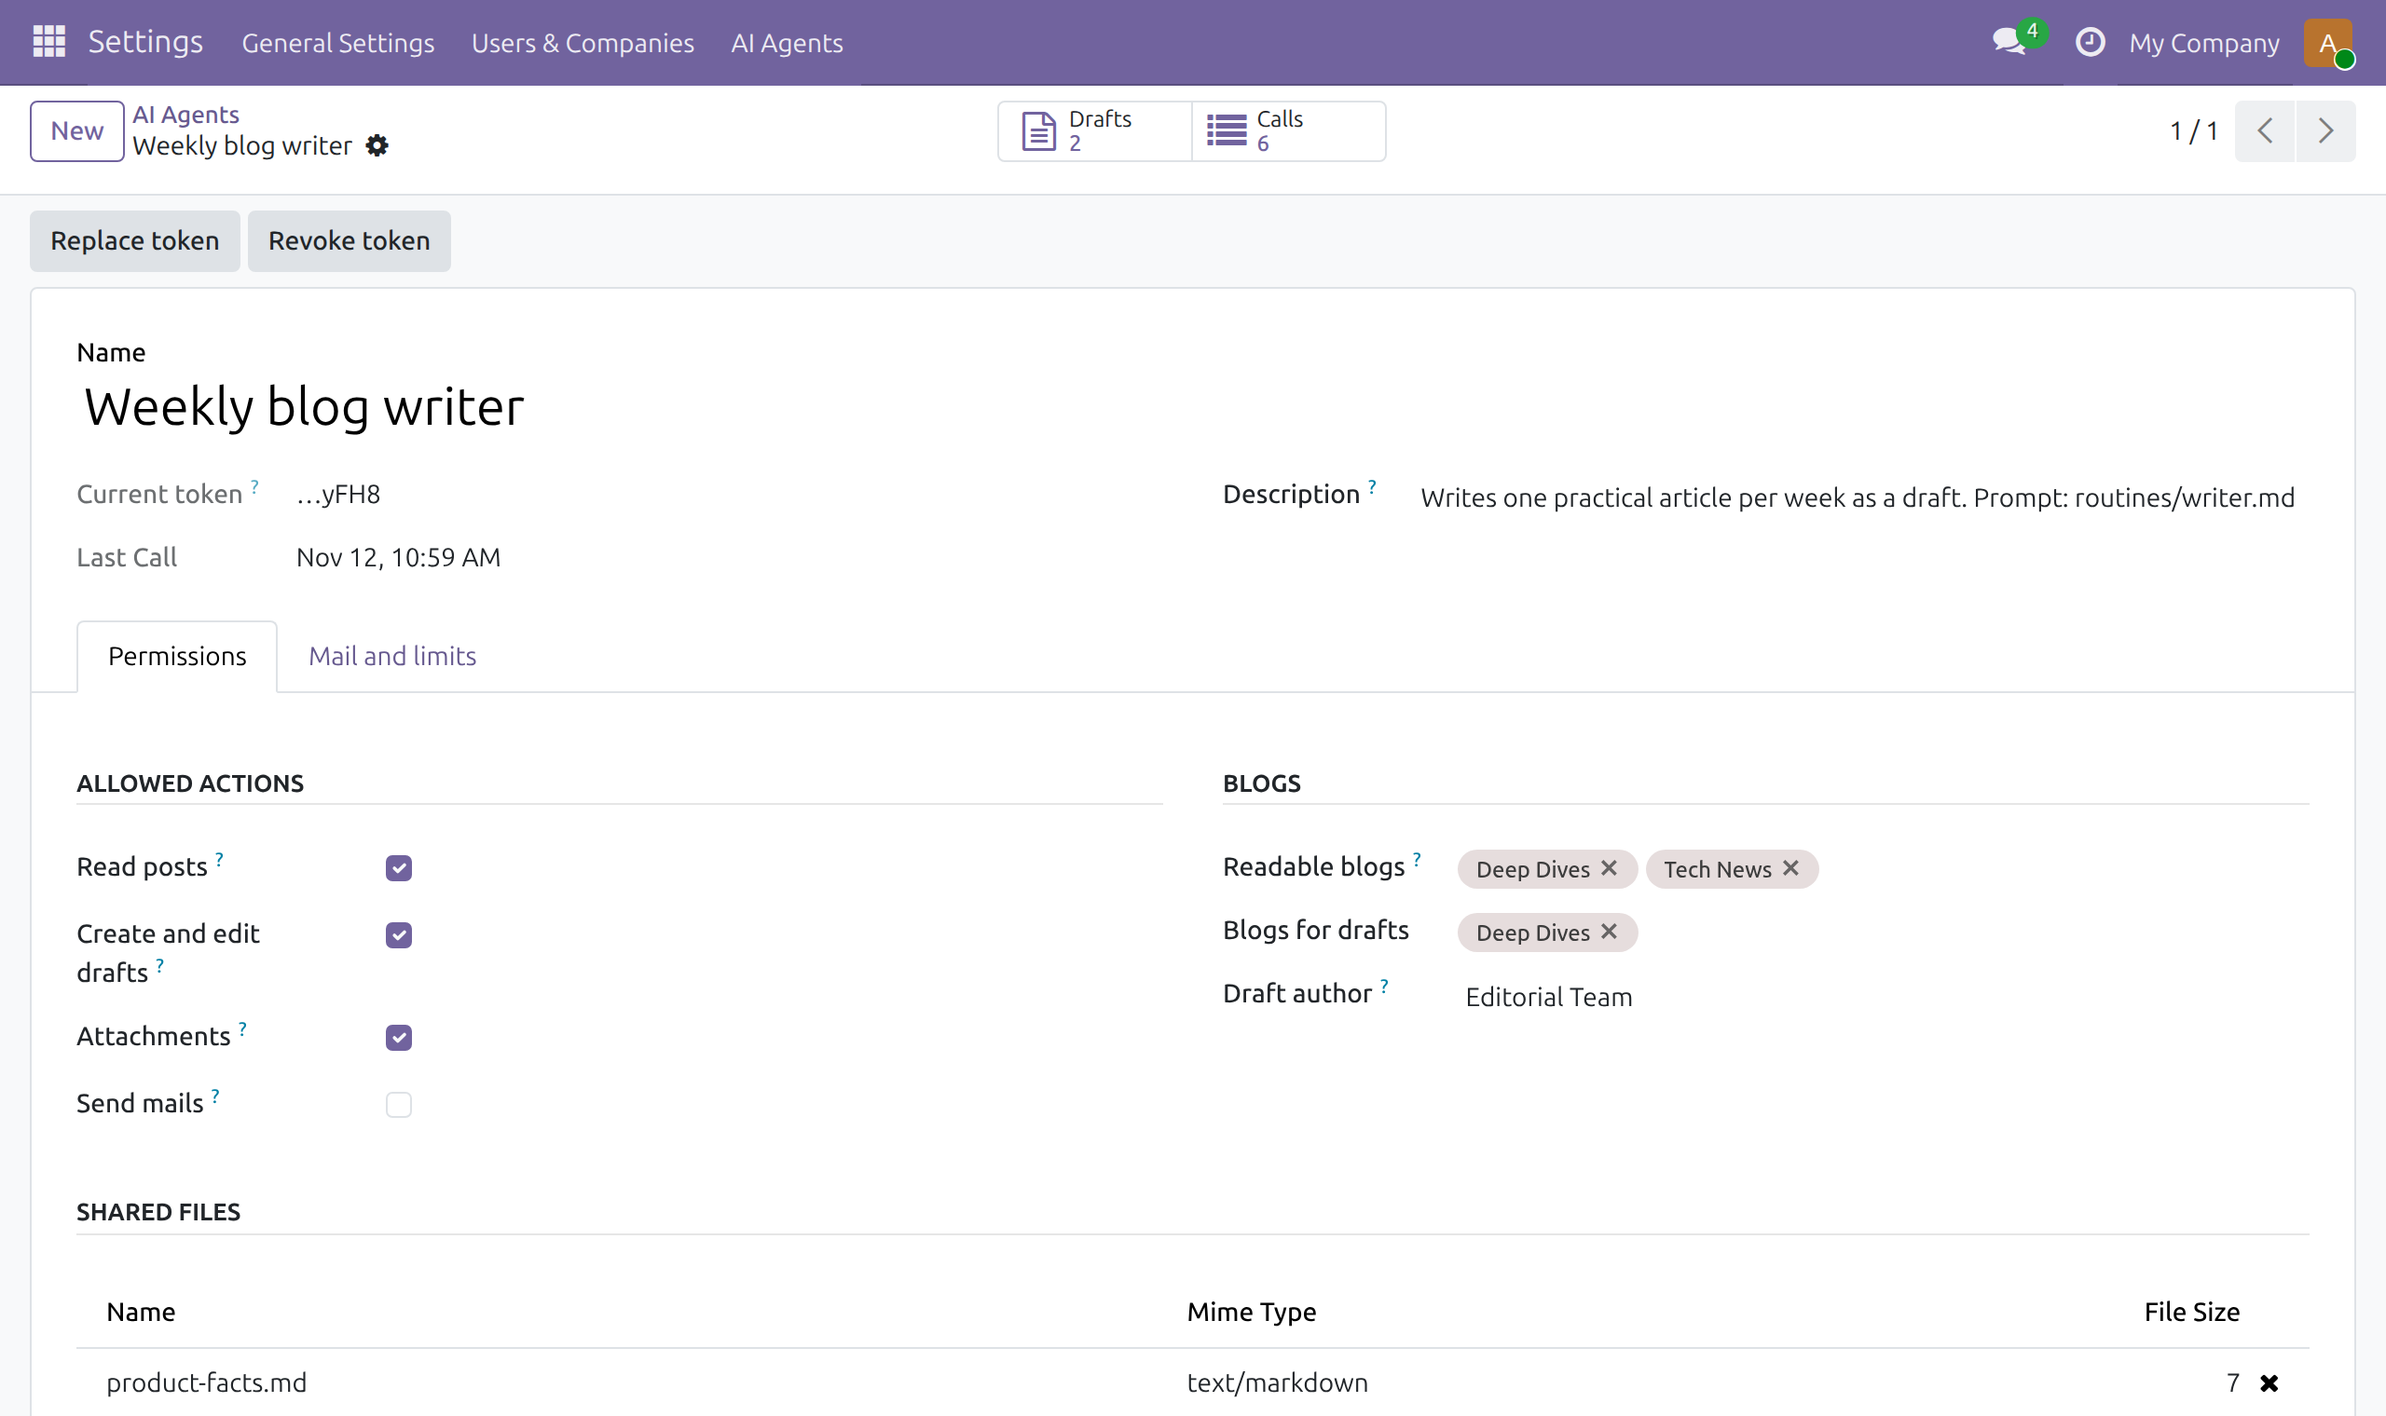
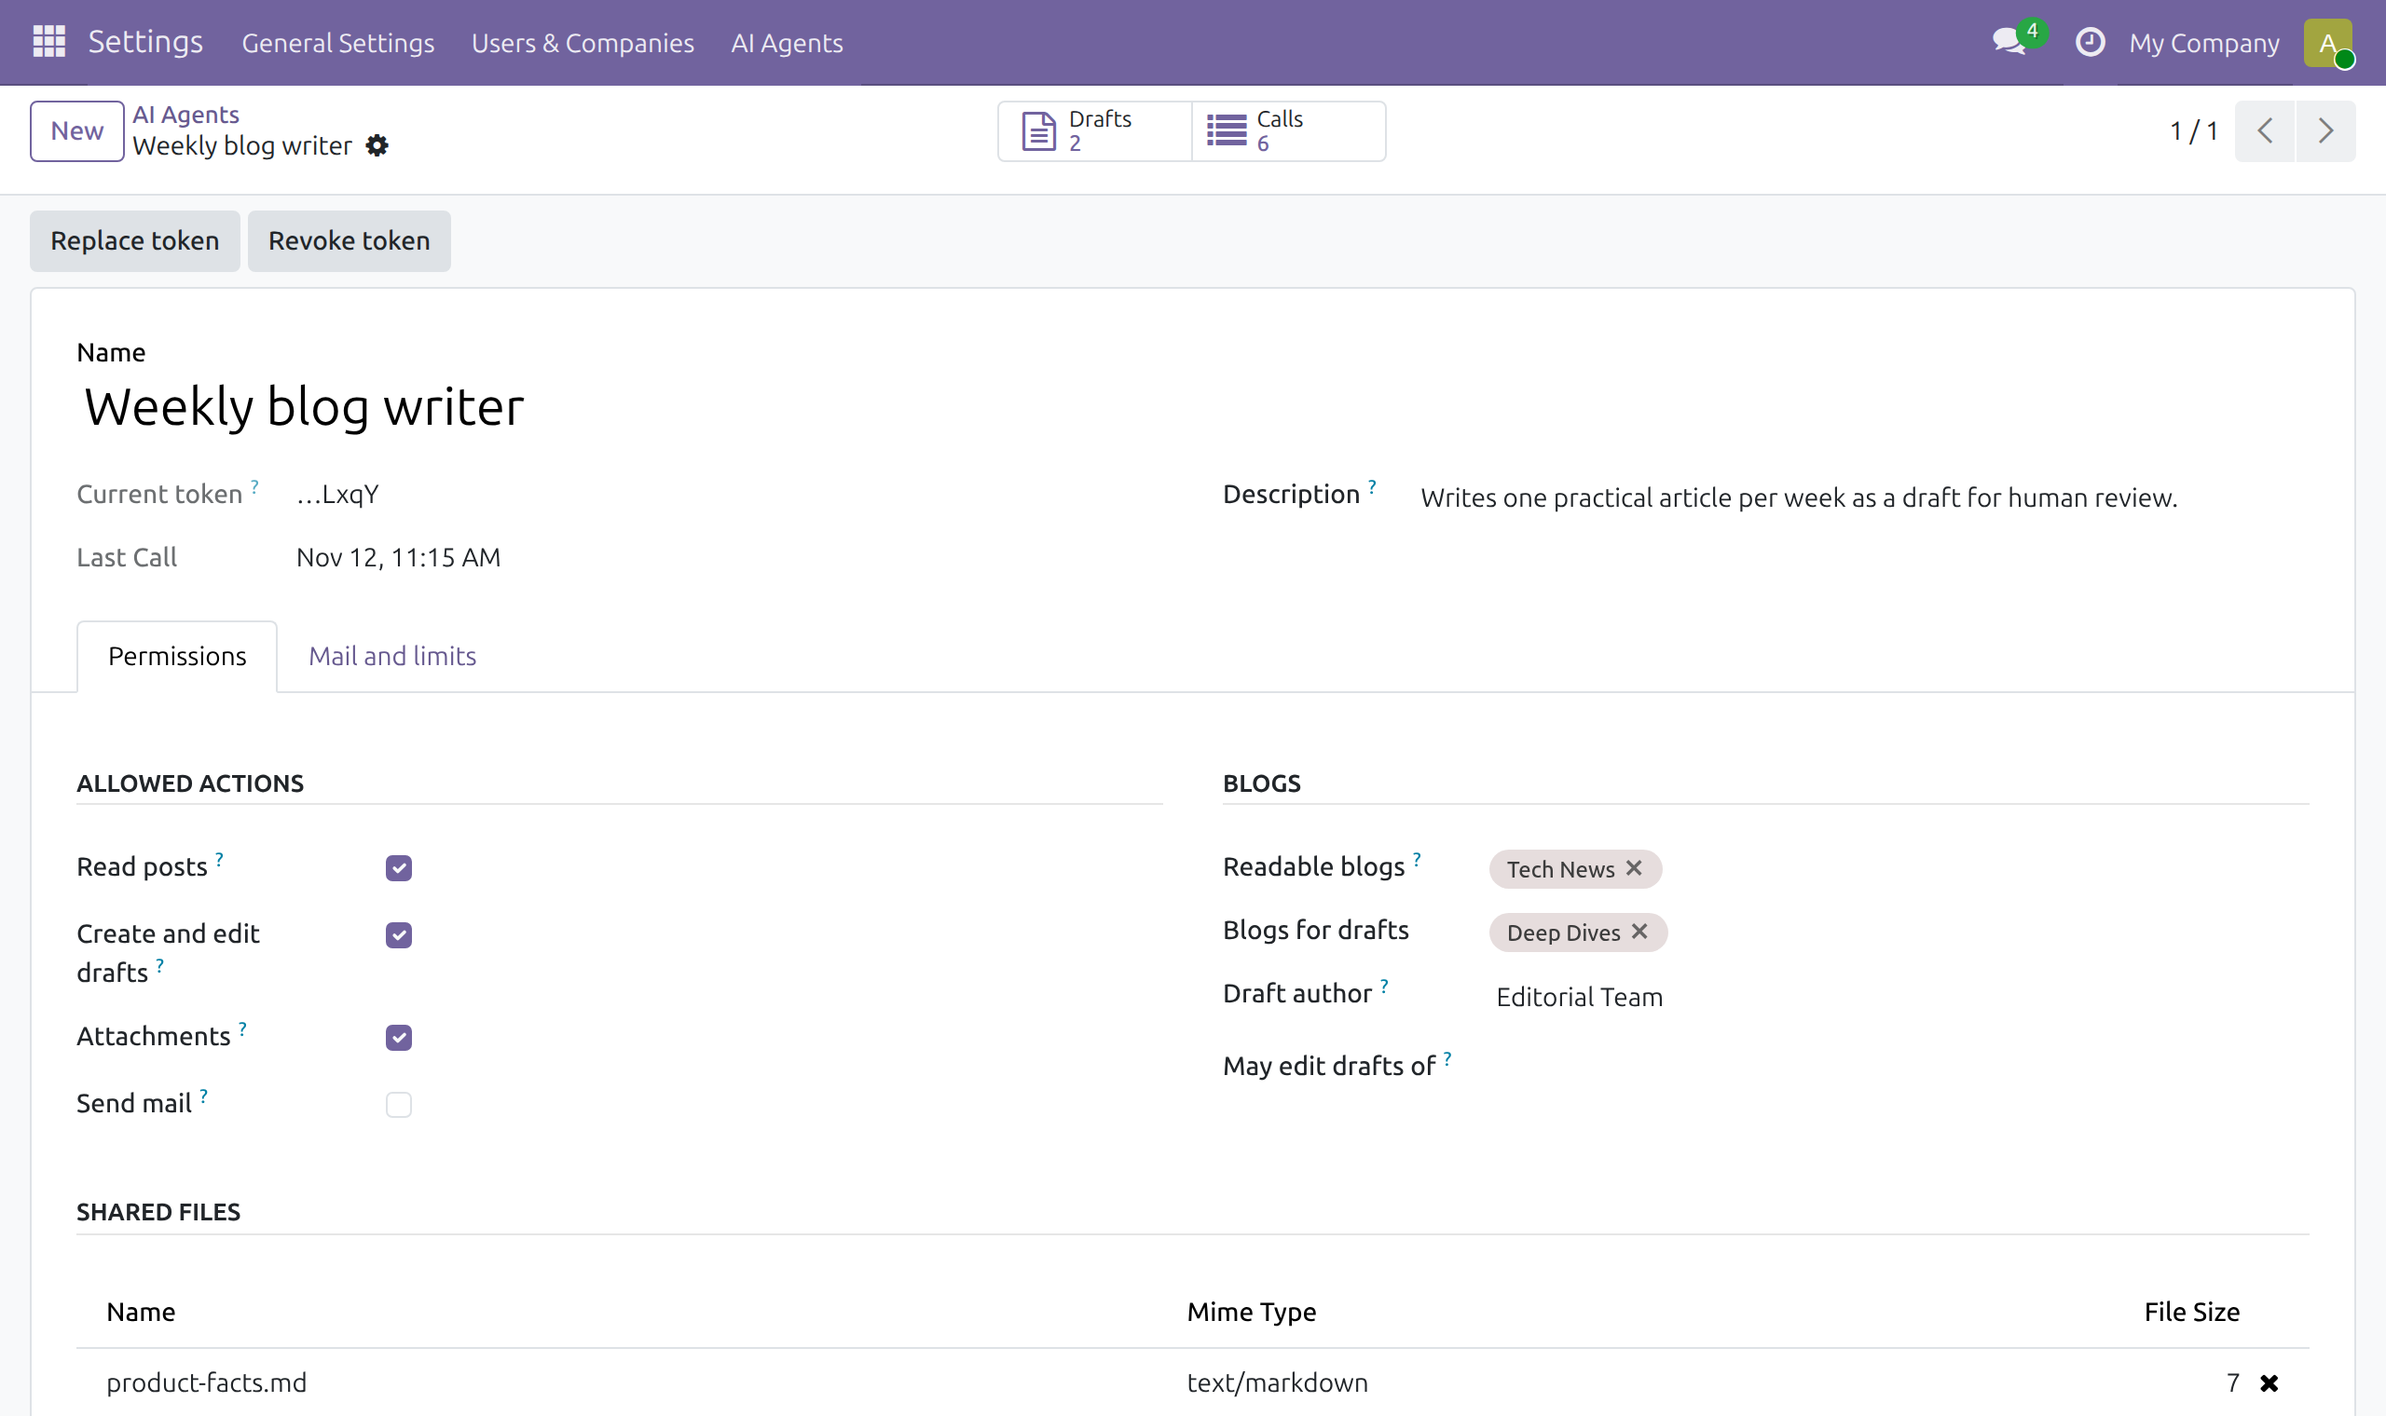
Reviewer agents may edit drafts of selected agents; README corrections after independent review; real screenshots

diff --git a/ai_agent_gateway/models/gateway.py b/ai_agent_gateway/models/gateway.py
@@ -186,11 +186,15 @@ class AiAgentGateway(models.AbstractModel):
     # Helpers
     # ------------------------------------------------------------------
 
+    def _may_edit(self, agent, post):
+        """Created by this agent or by an agent it may edit for (e.g. reviewer)."""
+        return bool(post.ai_agent_id) and post.ai_agent_id in (agent | agent.edit_agent_ids)
+
     def _own_draft(self, agent, post_id):
-        """A draft this agent created itself and that is still unpublished."""
+        """An unpublished draft this agent may edit (see _may_edit)."""
         post = self.env['blog.post'].browse(_int(post_id, 'post_id')).exists()
-        if not post or post.ai_agent_id != agent:
-            raise GatewayError('Post not found or not created by this agent', 404)
+        if not post or not self._may_edit(agent, post):
+            raise GatewayError('Post not found or not editable by this agent', 404)
         if post.is_published:
             raise GatewayError('Post is published - the agent cannot change it any more', 403)
         return post
@@ -238,6 +242,7 @@ class AiAgentGateway(models.AbstractModel):
             'readable_blogs': [{'id': b.id, 'name': b.name}
                                for b in agent.read_blog_ids | agent.write_blog_ids],
             'draft_blogs': [{'id': b.id, 'name': b.name} for b in agent.write_blog_ids],
+            'may_edit_drafts_of': [{'id': a.id, 'name': a.name} for a in agent.edit_agent_ids],
             'shared_files': [{'id': a.id, 'name': a.name} for a in agent.attachment_ids],
             'mails_left_today': max(agent.mail_limit_per_day - agent._mails_sent_today(), 0)
             if agent.can_send_mail else 0,
@@ -313,7 +318,7 @@ class AiAgentGateway(models.AbstractModel):
         allowed = attachment in agent.attachment_ids
         if attachment and not allowed and attachment.res_model == 'blog.post':
             post = self.env['blog.post'].browse(attachment.res_id).exists()
-            allowed = bool(post and post.ai_agent_id == agent and not post.is_published)
+            allowed = bool(post and self._may_edit(agent, post) and not post.is_published)
         if not attachment or not allowed:
             raise GatewayError(f'Attachment {att_id} is not readable for this agent', 403)
         return {'id': attachment.id, 'name': attachment.name,

diff --git a/ai_agent_gateway/tests/test_gateway.py b/ai_agent_gateway/tests/test_gateway.py
@@ -118,6 +118,21 @@ class TestCapabilities(GatewayCase):
         self.assertRejected(404, 'posts.write', other_token, id=post_id, vals={'subtitle': 'x'})
         self.assertRejected(404, 'attachments.list', other_token, post_id=post_id)
 
+    def test_reviewer_may_edit_drafts_of_writer(self):
+        reviewer = self.env['ai.agent'].create({
+            'name': 'Reviewer', 'can_write_drafts': True, 'can_use_attachments': True,
+            'edit_agent_ids': [(6, 0, self.agent.ids)]})
+        token = reviewer._generate_token()
+        post_id = self.create_draft()
+        self.call('posts.write', token, id=post_id, vals={'subtitle': 'Checked'})
+        self.assertEqual(self.env['blog.post'].browse(post_id).subtitle, 'Checked')
+        self.assertEqual(self.call('attachments.list', token, post_id=post_id)['attachments'], [])
+        # the permission is one-way: the writer cannot edit the reviewer's drafts
+        self.assertNotIn(reviewer, self.agent.edit_agent_ids)
+        # and nobody edits after publishing
+        self.env['blog.post'].browse(post_id).is_published = True
+        self.assertRejected(403, 'posts.write', token, id=post_id, vals={'subtitle': 'x'})
+
     def test_request_limit(self):
         self.agent.request_limit_per_hour = 2
         self.call('me')

diff --git a/ai_agent_gateway/models/ai_agent.py b/ai_agent_gateway/models/ai_agent.py
@@ -41,7 +41,7 @@ class AiAgent(models.Model):
     can_use_attachments = fields.Boolean(
         string='Attachments',
         help='Actions: attachments.list, attachments.read, attachments.create')
-    can_send_mail = fields.Boolean(string='Send mails', help='Action: mail.send')
+    can_send_mail = fields.Boolean(string='Send mail', help='Action: mail.send')
 
     # Scope
     read_blog_ids = fields.Many2many(
@@ -55,6 +55,11 @@ class AiAgent(models.Model):
         'ir.attachment', 'ai_agent_attachment_rel', 'agent_id', 'attachment_id',
         string='Shared files',
         help='Files the agent may download, e.g. a style guide or a fact sheet.')
+    edit_agent_ids = fields.Many2many(
+        'ai.agent', 'ai_agent_edit_agent_rel', 'agent_id', 'other_agent_id',
+        string='May edit drafts of',
+        help='Unpublished drafts created by these agents may be edited by this agent too, '
+             'e.g. a fact-checking agent that corrects the drafts of a writing agent.')
     author_id = fields.Many2one(
         'res.partner', string='Draft author',
         help='Author set on the drafts this agent creates.')

diff --git a/README.md b/README.md
@@ -41,10 +41,10 @@ AI agent ──Bearer token──▶ /ai-agent-gateway/v1/<action> ──▶ che
 | Capability (tick per agent) | Actions | Scope |
 |---|---|---|
 | – | `me` | the agent's own permissions, for setup checks |
-| Read posts | `tags`, `posts.search` | only the blogs you select, only whitelisted fields |
-| Create and edit drafts | `posts.create`, `posts.write` | new posts are **always unpublished**; an agent edits **only its own** drafts and only until they are published |
+| Read posts | `tags`, `posts.search` | `posts.search`: only the blogs you select, only whitelisted fields; `tags`: all blog tags (names only) |
+| Create and edit drafts | `posts.create`, `posts.write` | new posts are **always unpublished**; an agent edits **only its own** drafts – or those of agents you explicitly allow, e.g. a reviewer – and only until they are published |
 | Attachments | `attachments.list`, `attachments.read`, `attachments.create` | JPEG/PNG/WebP images and private HTML backups on its own drafts, plus files you explicitly share with it |
-| Send mails | `mail.send` | to **one fixed recipient** set in Odoo, with a daily limit |
+| Send mail | `mail.send` | to **one fixed recipient** set in Odoo, with a limit per 24 hours |
 
 Everything else – publishing, deleting, other models, other blogs, other agents' drafts – does not exist
 for the agent.
@@ -54,13 +54,25 @@ for the agent.
 | Threat | What the gateway does |
 |---|---|
 | Leaked token | Token is tied to one agent with minimal rights. Only its SHA-256 hash is stored; replace or revoke it with one click. Archiving the agent also blocks it. |
-| Agent "decides" to publish or delete | There is no action for it. `is_published`, `author_id`, `website_id`, `active` … are rejected on create and write. |
-| Agent edits human content | Agents can only change drafts they created themselves (`ai_agent_id`), and only while unpublished. |
+| Agent "decides" to publish or delete | There is no action for it. Only whitelisted fields are accepted; anything else (`is_published`, `author_id`, `website_id`, `active`, …) is rejected with HTTP 400. |
+| Agent edits human content | Agents can only change drafts created by an agent (themselves, or agents listed under *May edit drafts of*), and only while unpublished. |
 | Prompt injection → XSS in a post | HTML is sanitized with Odoo's `html_sanitize` (scripts, event handlers, `javascript:` links, inline styles removed). Cover settings are validated against a whitelist. |
-| Malicious uploads | Only listed MIME types, checked against the file's magic bytes, max. 8 MB, safe file names; HTML files can never be public. |
-| Mail abuse | Recipient and sender are fixed in Odoo – the agent cannot set them. Daily mail limit per agent. |
-| Runaway loop / brute force | Requests-per-hour limit per agent (HTTP 429). Rejected tokens are logged as warnings. |
-| "What did the agent do?" | Every authenticated call – accepted or rejected – is logged with action, status, IDs and IP, never with content. Logs are deleted after 90 days (system parameter `ai_agent_gateway.log_retention_days`). |
+| Malicious uploads | Only JPEG, PNG, WebP and HTML are accepted; images are checked against their file signature (for WebP only the RIFF header), max. 8 MB, safe file names. HTML files are never public. |
+| Mail abuse | Recipient and sender are fixed in Odoo – the agent cannot set them. Mail limit per agent and 24 hours. |
+| Runaway loop | Sliding requests-per-hour limit per agent (HTTP 429); all logged calls of the agent count towards it. |
+| Token guessing | Tokens carry 256 bits of randomness. Invalid tokens are logged as warnings with the client IP (suitable for fail2ban), but are not rate-limited by the module. |
+| "What did the agent do?" | Every authenticated call that reaches an action – accepted or rejected – is logged with action, HTTP status, IDs, post title or mail subject, error message and IP address. Post bodies, mail bodies and file contents are never logged. Logs are deleted after 90 days (system parameter `ai_agent_gateway.log_retention_days`). |
+
+### What the gateway does not protect
+
+- Actions run with `sudo()`: Odoo access rights and record rules do not apply – the module's own checks are
+  the only barrier. Keep the list of actions small.
+- A readable blog exposes all its posts to the agent, including unpublished drafts written by humans.
+- An agent can overwrite human edits on drafts it may edit, as long as they are unpublished.
+- Images uploaded with `public: true` are reachable by URL before the post is published.
+- A new token stays in the transient wizard record until you click **I have stored the token** or Odoo
+  vacuums transient records; closing the dialog with × leaves it there until then.
+- The logged IP is the proxy's address unless Odoo runs with `--proxy-mode`.
 
 The gateway does not replace your normal Odoo hardening (HTTPS, reverse proxy, backups, updates). It removes
 the need to hand an AI agent a full API key.
@@ -82,9 +94,16 @@ curl -s https://<your-odoo>/ai-agent-gateway/v1/me \
 ```
 
 ```json
-{"result": {"name": "Weekly blog writer", "actions": ["me", "posts.create", "posts.search", "posts.write", "tags"],
-            "readable_blogs": [{"id": 2, "name": "News"}], "draft_blogs": [{"id": 2, "name": "News"}],
-            "shared_files": [], "mails_left_today": 0}}
+{"result": {
+  "name": "Weekly blog writer",
+  "actions": ["attachments.create", "attachments.list", "attachments.read",
+              "me", "posts.create", "posts.search", "posts.write", "tags"],
+  "readable_blogs": [{"id": 1, "name": "Tech News"}, {"id": 2, "name": "Deep Dives"}],
+  "draft_blogs": [{"id": 2, "name": "Deep Dives"}],
+  "may_edit_drafts_of": [],
+  "shared_files": [{"id": 283, "name": "style-guide.md"}, {"id": 284, "name": "product-facts.md"}],
+  "mails_left_today": 0
+}}
 ```
 
 If your server hosts several databases, add the header `X-Odoo-Database: <db name>`.
@@ -92,11 +111,12 @@ If your server hosts several databases, add the header `X-Odoo-Database: <db nam
 ## API
 
 `POST /ai-agent-gateway/v1/<action>` with a JSON object as body and `Authorization: Bearer <token>`.
-Answers are `{"result": …}` (HTTP 200) or `{"error": "…"}` with 400, 401, 403, 404, 429 or 503.
+Responses are `{"result": …}` (HTTP 200) or `{"error": "…"}` with 400, 401, 403, 404, 429 or 503;
+unexpected server errors return Odoo's standard 500 response.
 
 | Action | Body | Result |
 |---|---|---|
-| `me` | `{}` | name, allowed actions, blogs, shared files, mails left |
+| `me` | `{}` | name, allowed actions, blogs, agents whose drafts it may edit, shared files, mails left |
 | `tags` | `{}` | `{"tags": [{"id", "name"}]}` |
 | `posts.search` | `blog_id`, optional `published`, `name_like` (SQL `LIKE` pattern), `created_after` (`YYYY-MM-DD HH:MM:SS` UTC), `fields`, `order` (`create_date desc` / `post_date desc`), `limit` (1–30) | `{"posts": [...]}` |
 | `posts.create` | `blog_id`, `name`, `content` (HTML), optional `subtitle`, `tag_ids`, `website_meta_title`, `website_meta_description`, `cover_properties` | `{"id", "website_url", "is_published": false}` |
@@ -114,7 +134,7 @@ Readable post fields: `id`, `name`, `subtitle`, `content`, `website_url`, `websi
 ### Python (standard library only)
 
 ```python
-import json, os, urllib.request
+import json, os, urllib.error, urllib.request
 
 def gateway(action, payload=None):
     req = urllib.request.Request(
@@ -123,7 +143,10 @@ def gateway(action, payload=None):
         headers={"Content-Type": "application/json",
                  "Authorization": f"Bearer {os.environ['AGENT_TOKEN']}"},
         method="POST")
-    return json.load(urllib.request.urlopen(req, timeout=60))["result"]
+    try:
+        return json.load(urllib.request.urlopen(req, timeout=60))["result"]
+    except urllib.error.HTTPError as e:   # 4xx/5xx: the JSON error is in the body
+        raise RuntimeError(f"{action}: HTTP {e.code} {e.read().decode()[:500]}") from None
 
 draft = gateway("posts.create", {
     "blog_id": 2,
@@ -146,7 +169,7 @@ Provide the token as an environment variable or secret – never inside the prom
 agents with two tokens:
 
 1. **Writer** – `posts.search` (avoid duplicates) → `posts.create` → `attachments.create` (images).
-2. **Reviewer** – reads the newest draft, checks facts and links, stores the original as a private HTML
+2. **Reviewer** (with *May edit drafts of: Writer*) – reads the newest draft, checks facts and links, stores the original as a private HTML
    backup, corrects the draft with `posts.write` and sends one summary with `mail.send`.
 
 The editor reads the mail, opens the draft and publishes it – or not.
@@ -181,5 +204,5 @@ Linux administration and AI automation for small and medium businesses.
 
 ## License
 
-[LGPL-3.0](LICENSE) (see also [COPYING](COPYING) for the GPL-3.0 text it builds on). © JZ Webservices.
+[LGPL-3.0](LICENSE) (see also [COPYING](COPYING) for the GPL-3.0 text it builds on). © 2026 JZ Webservices.
 This software is provided without warranty; see the license for details.
